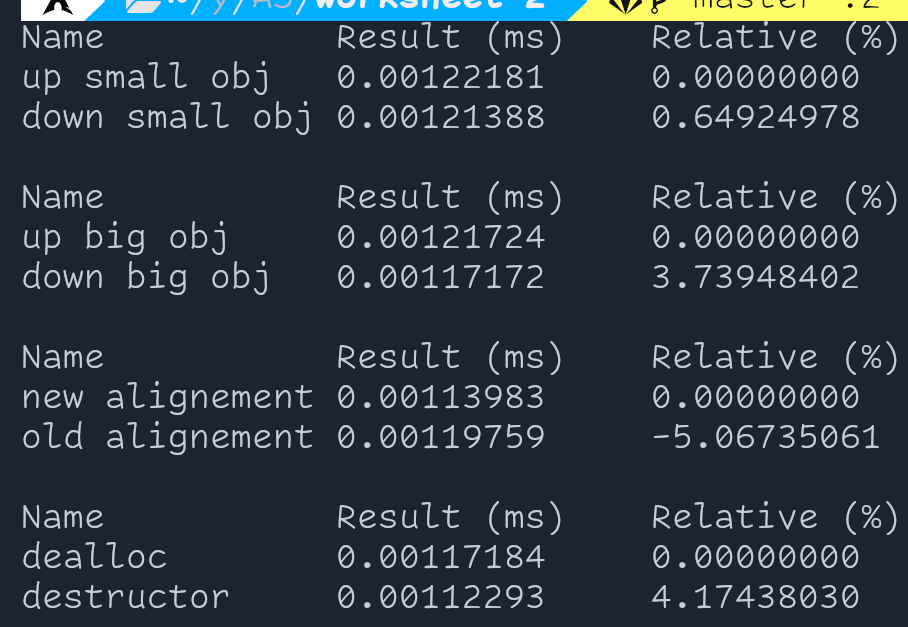
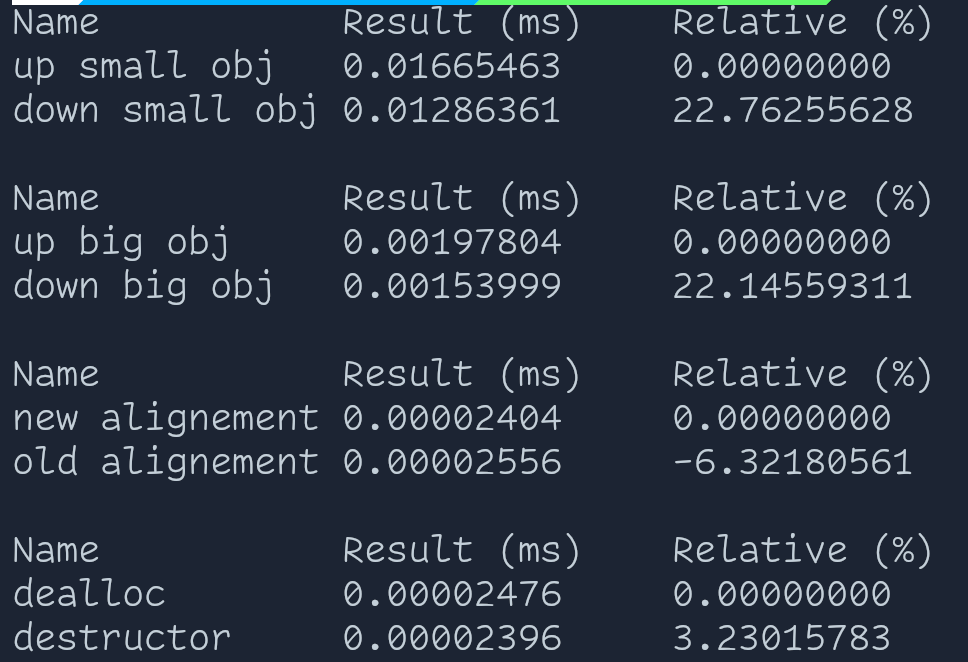
updated read me

diff --git a/README.md b/README.md
@@ -46,14 +46,14 @@ $ cd worksheet-2
 next, you can run the unit tests using the following commands:
 
 ```bash
-$ clang++ -std=c++17 -o unit unit_tests.cpp include/simpletest/simpletest.cpp
+$ clang++ -I./include -std=c++17 -o unit unit_tests.cpp include/simpletest/simpletest.cpp
 $ ./unit
 ```
 
 and the benchmarks:
 
 ```bash
-$ clang++ -O3 -std=c++17 -o bench benchmarks.cpp
+$ clang++ -I./include -O3 -std=c++17 -o bench benchmarks.cpp
 $ ./bench
 ```
 
@@ -278,16 +278,16 @@ test 4         0.00122352     2.02512792
 
 #### `test_up_small` and `test_down_small`
 
-this test is for creating a number of unaligned literal objects multiple times, and the bump down is **0.65%** faster, which is not much, but that is due to how small the data is.
+this test is for creating a number of unaligned literal objects multiple times, and the bump down is **22.7%** faster, which is not much, but that is due to how small the data is.
 
 #### `test_up_big` and `test_down_big`
 
-this one is about creating big objects, for example here we are using a struct with 4 `double`s in it. and this benchmark has a more noticable difference being **3.74%** faster, which shows the potential of how faster are the bump down implemntation when the objects grown in size
+this one is about creating big objects, for example here we are using a struct with 4 `double`s in it. and this benchmark has a more noticable difference being **22.1%** faster
 
 #### `new_alignment` and `old_alignment`
 
-this benchmark is more focused on the lower level details of the implemntation, and tests the alignment with the modulo operation and the alignment with bit shifting. the output shows that the bit shifting is faster by **5%**, so not only does it save memory, its also faster
+this benchmark is more focused on the lower level details of the implemntation, and tests the alignment with the modulo operation and the alignment with bit shifting. the output shows that the bit shifting is faster by **6%**, so not only does it save memory, its also faster
 
 #### `test_dealloc` and `test_destructor`
 
-this test is about whether to create a new bumper over and over or just use the dealloc method which will simply resit the pointer to the start (or end depending on which implemntation) of the allocator. the ouput says that it is **6%** faster, but it is suspected to go way heigher if the number of `new` calls increases as its a costly operator compared to copying a pointer
+this test is about whether to create a new bumper over and over or just use the dealloc method which will simply resit the pointer to the start (or end depending on which implemntation) of the allocator. the ouput says that it is **3%** faster, but it is suspected to go way heigher due to the number of `new` calls increasing as its a costly operator compared to copying a pointer
